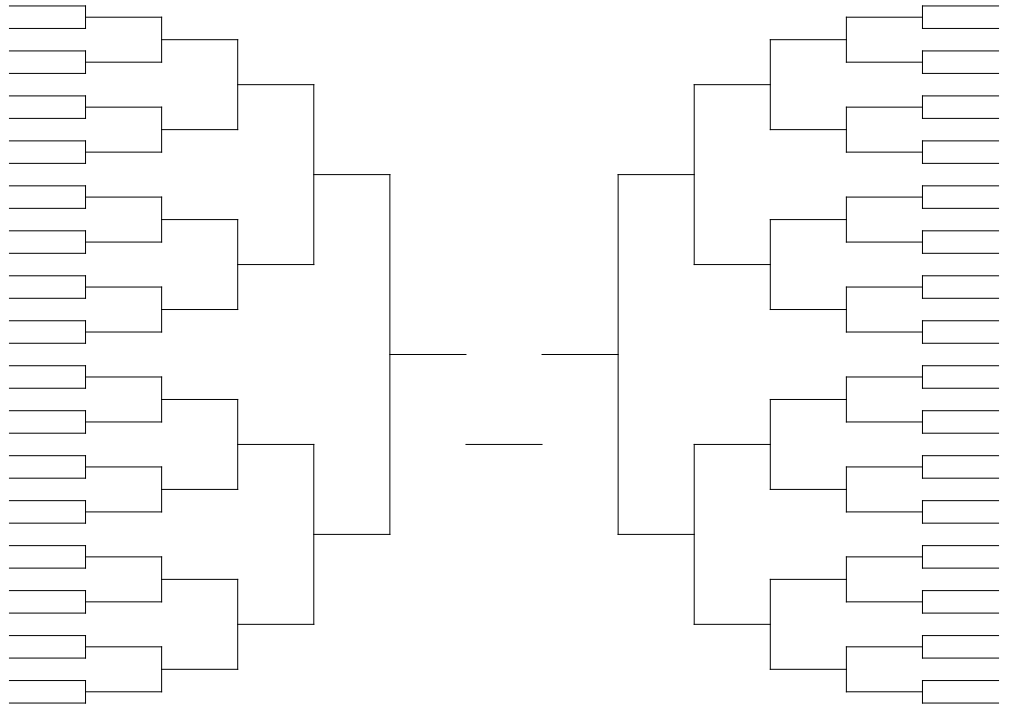
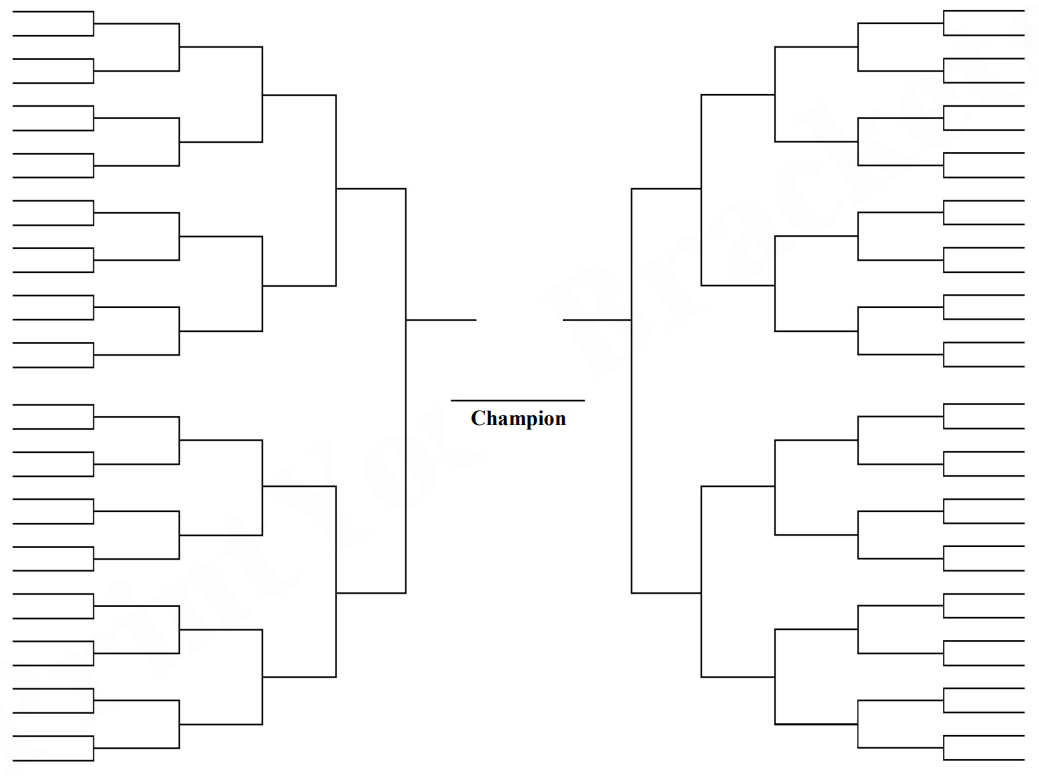
Finished 64 bracket

diff --git a/public/bracket64.html b/public/bracket64.html
@@ -31,7 +31,7 @@
     </div>
     <p id="savingProgress"></p>
     <div id="bracket">
-      <img height="2500" width="2500" id="bracket" src="images/bracket128Top.png">
+      <img height="2500" width="2500" id="bracket" src="images/64b.png">
 
       <select id="m0a" onchange="saveDraw2('m0', 'm0a')">
           <option>Bye</option>
@@ -500,7 +500,7 @@
       <span id="m56a"></span>
       <span id="m56b"></span>
       <button id="m56" class="editMatch" onclick="editMatch('m56')" data-toggle="modal" data-target="#editMatchModal"></button>
-      <p id="m56details" class="matchDetailsRight"></p>
+      <p id="m56details" class="matchDetailsLeft"></p>
       <p id="m56score" class="matchScore"></p>
 
       <span id="m57a"></span>
@@ -512,7 +512,7 @@
       <span id="m58a"></span>
       <span id="m58b"></span>
       <button id="m58" class="editMatch" onclick="editMatch('m58')" data-toggle="modal" data-target="#editMatchModal"></button>
-      <p id="m58details" class="matchDetailsLeft"></p>
+      <p id="m58details" class="matchDetailsRight"></p>
       <p id="m58score" class="matchScore"></p>
 
       <span id="m59a"></span>
@@ -524,22 +524,22 @@
       <span id="m60a"></span>
       <span id="m60b"></span>
       <button id="m60" class="editMatch" onclick="editMatch('m60')" data-toggle="modal" data-target="#editMatchModal"></button>
-      <p id="m60details" class="matchDetailsRight"></p>
+      <p id="m60details" class="matchDetailsLeft"></p>
       <p id="m60score" class="matchScore"></p>
 
       <span id="m61a"></span>
       <span id="m61b"></span>
       <button id="m61" class="editMatch" onclick="editMatch('m61')" data-toggle="modal" data-target="#editMatchModal"></button>
-      <p id="m61details" class="matchDetailsLeft"></p>
+      <p id="m61details" class="matchDetailsRight"></p>
       <p id="m61score" class="matchScore"></p>
 
       <span id="m62a"></span>
       <span id="m62b"></span>
       <button id="m62" class="editMatch" onclick="editMatch('m62')" data-toggle="modal" data-target="#editMatchModal"></button>
-      <p id="m62details" class="matchDetailsRight"></p>
-      <p id="m62score" class="matchScore"></p>
+      <p id="m62details" class="matchDetailsCenter"></p>
+      <p id="m62score" class="matchScoreCenter"></p>
 
-      <span id="winner" class="matchScoreCenter "></span>
+      <span id="winner" class="matchScoreCenter"></span>
     </div>
 
     <div class="modal fade" id="editMatchModal" tabindex="-1" role="dialog" aria-labelledby="editMatchModalLabel"
@@ -733,13 +733,13 @@
         document.getElementById(round2LeftMatchIds2[i]+"score").setAttribute("style", "position:absolute;left:440px;padding:7px;top:"+(editBotCounter+8)+"px;width:6em;");
         
         document.getElementById(round2RightMatchIds1[i]+"a").setAttribute("style", "position:absolute;left:2077px;top:"+topCounter+"px;");
-        document.getElementById(round2RightMatchIds1[i]).setAttribute("style", "position:absolute;left:2070px;padding:7px;top:"+editTopCounter+"px;");
-        document.getElementById(round2RightMatchIds1[i]+"details").setAttribute("style", "position:absolute;left:2090px;padding:7px;top:"+(editTopCounter-15)+"px;width:12em;");
+        document.getElementById(round2RightMatchIds1[i]).setAttribute("style", "position:absolute;left:2080px;padding:7px;top:"+editTopCounter+"px;");
+        document.getElementById(round2RightMatchIds1[i]+"details").setAttribute("style", "position:absolute;left:2100px;padding:7px;top:"+(editTopCounter-15)+"px;width:12em;");
         document.getElementById(round2RightMatchIds1[i]+"score").setAttribute("style", "position:absolute;left:1875px;padding:7px;top:"+(editTopCounter+8)+"px;width:6em;");
 
         document.getElementById(round2RightMatchIds2[i]+"a").setAttribute("style", "position:absolute;left:2077px;top:"+botCounter+"px;");
-        document.getElementById(round2RightMatchIds2[i]).setAttribute("style", "position:absolute;left:2070px;padding:7px;top:"+editBotCounter+"px;");
-        document.getElementById(round2RightMatchIds2[i]+"details").setAttribute("style", "position:absolute;left:2090px ;padding:7px;top:"+(editBotCounter-15)+"px;width:12em;");
+        document.getElementById(round2RightMatchIds2[i]).setAttribute("style", "position:absolute;left:2080px;padding:7px;top:"+editBotCounter+"px;");
+        document.getElementById(round2RightMatchIds2[i]+"details").setAttribute("style", "position:absolute;left:2100px ;padding:7px;top:"+(editBotCounter-15)+"px;width:12em;");
         document.getElementById(round2RightMatchIds2[i]+"score").setAttribute("style", "position:absolute;left:1875px;padding:7px;top:"+(editBotCounter+8)+"px;width:6em;");
 
         editTopCounter += editInc;
@@ -816,6 +816,83 @@
           counter += 3;
         }
       }
+
+      var round4LeftMatchIds1 = 
+        ["m56"];
+      var round4LeftMatchIds2 =
+        ["m57"];
+      var round4RightMatchIds1 = 
+        ["m58"];
+      var round4RightMatchIds2 =
+        ["m59"];
+
+      var topCounter = 330;
+      var botCounter = 1590;
+      var editTopCounter = 650;
+      var editBotCounter = 1950;
+
+      var playerInc = 613;
+      var matchInc = 308;
+      var editInc = 616;
+
+      for (var i = 0; i < round4LeftMatchIds1.length; i++) {
+        document.getElementById(round4LeftMatchIds1[i]+"a").setAttribute("style", "position:absolute;left:648px;top:"+topCounter+"px;");
+        document.getElementById(round4LeftMatchIds1[i]).setAttribute("style", "position:absolute;left:780px;padding:7px;top:"+editTopCounter+"px;");
+        document.getElementById(round4LeftMatchIds1[i]+"details").setAttribute("style", "position:absolute;left:585px;padding:7px;top:"+(editTopCounter-15)+"px;width:12em;");
+        document.getElementById(round4LeftMatchIds1[i]+"score").setAttribute("style", "position:absolute;left:815px;padding:7px;top:"+(editTopCounter+8)+"px;width:6em;");
+        
+        document.getElementById(round4LeftMatchIds2[i]+"a").setAttribute("style", "position:absolute;left:648px;top:"+botCounter+"px;");
+        document.getElementById(round4LeftMatchIds2[i]).setAttribute("style", "position:absolute;left:780px;padding:7px;top:"+editBotCounter+"px;");
+        document.getElementById(round4LeftMatchIds2[i]+"details").setAttribute("style", "position:absolute;left:585px;padding:7px;top:"+(editBotCounter-15)+"px;width:12em;");
+        document.getElementById(round4LeftMatchIds2[i]+"score").setAttribute("style", "position:absolute;left:815px;padding:7px;top:"+(editBotCounter+8)+"px;width:6em;");
+        
+        document.getElementById(round4RightMatchIds1[i]+"a").setAttribute("style", "position:absolute;left:1708px;top:"+topCounter+"px;");
+        document.getElementById(round4RightMatchIds1[i]).setAttribute("style", "position:absolute;left:1703px;padding:7px;top:"+editTopCounter+"px;");
+        document.getElementById(round4RightMatchIds1[i]+"details").setAttribute("style", "position:absolute;left:1723px;padding:7px;top:"+(editTopCounter-15)+"px;width:12em;");
+        document.getElementById(round4RightMatchIds1[i]+"score").setAttribute("style", "position:absolute;left:1526px;padding:7px;top:"+(editTopCounter+8)+"px;width:6em;");
+
+        document.getElementById(round4RightMatchIds2[i]+"a").setAttribute("style", "position:absolute;left:1708px;top:"+botCounter+"px;");
+        document.getElementById(round4RightMatchIds2[i]).setAttribute("style", "position:absolute;left:1703px;padding:7px;top:"+editBotCounter+"px;");
+        document.getElementById(round4RightMatchIds2[i]+"details").setAttribute("style", "position:absolute;left:1723px ;padding:7px;top:"+(editBotCounter-15)+"px;width:12em;");
+        document.getElementById(round4RightMatchIds2[i]+"score").setAttribute("style", "position:absolute;left:1526px;padding:7px;top:"+(editBotCounter+8)+"px;width:6em;");
+
+        editTopCounter += editInc;
+        editBotCounter += editInc;
+
+        topCounter += playerInc;
+        botCounter += playerInc;
+        document.getElementById(round4LeftMatchIds1[i]+"b").setAttribute("style", "position:absolute;left:648px;top:"+topCounter+"px;");
+        document.getElementById(round4LeftMatchIds2[i]+"b").setAttribute("style", "position:absolute;left:648px;top:"+botCounter+"px;");
+
+        document.getElementById(round4RightMatchIds1[i]+"b").setAttribute("style", "position:absolute;left:1708px;top:"+topCounter+"px;");
+        document.getElementById(round4RightMatchIds2[i]+"b").setAttribute("style", "position:absolute;left:1708px;top:"+botCounter+"px;");
+
+        topCounter += matchInc;
+        botCounter += matchInc;
+        if (i == 5) {
+          counter += 3;
+        }
+      }
+
+      document.getElementById("m60a").setAttribute("style", "position:absolute;left:823px;top:"+633+"px;");
+      document.getElementById("m60b").setAttribute("style", "position:absolute;left:823px;top:"+1933+"px;");
+      document.getElementById("m60").setAttribute("style", "position:absolute;left:945px;padding:7px;top:"+1073+"px;");
+      document.getElementById("m60details").setAttribute("style", "position:absolute;left:750px;padding:7px;top:"+1058+"px;width:12em;");
+      document.getElementById("m60score").setAttribute("style", "position:absolute;left:985px;padding:7px;top:"+1081+"px;width:6em;");
+
+      document.getElementById("m61a").setAttribute("style", "position:absolute;left:1534px;top:"+633+"px;");
+      document.getElementById("m61b").setAttribute("style", "position:absolute;left:1534px;top:"+1933+"px;");
+      document.getElementById("m61").setAttribute("style", "position:absolute;left:1534px;padding:7px;top:"+1073+"px;");
+      document.getElementById("m61details").setAttribute("style", "position:absolute;left:1554px;padding:7px;top:"+1058+"px;width:12em;");
+      document.getElementById("m61score").setAttribute("style", "position:absolute;left:1364px;padding:7px;top:"+1081+"px;width:6em;");
+
+      document.getElementById("m62a").setAttribute("style", "position:absolute;left:993px;top:"+1055+"px;");
+      document.getElementById("m62b").setAttribute("style", "position:absolute;left:1373px;top:"+1055+"px;");
+      document.getElementById("m62").setAttribute("style", "position:absolute;left:1240px;padding:7px;top:"+1073+"px;");
+      document.getElementById("m62details").setAttribute("style", "position:absolute;left:1155px;padding:7px;top:"+1035+"px;width:12em;");
+      document.getElementById("m62score").setAttribute("style", "position:absolute;left:1200px;padding:7px;top:"+1085+"px;width:6em;");
+
+      document.getElementById("winner").setAttribute("style", "position:absolute;left:1200px;top:"+1310+"px;");
     
       var fullMatchIds = 
         ["m0", "m1", "m2","m3","m4", "m5", "m6", "m7",
@@ -999,6 +1076,8 @@
         document.getElementById("p1Label").textContent = document.getElementById(matchId+"a").value
         document.getElementById("p2Label").textContent = document.getElementById(matchId+"b").value
       } else {
+        console.log(matchId);
+        console.log(document.getElementById(matchId+"a").textContent);
         document.getElementById("p1Label").textContent = document.getElementById(matchId+"a").textContent
         document.getElementById("p2Label").textContent = document.getElementById(matchId+"b").textContent
       }
